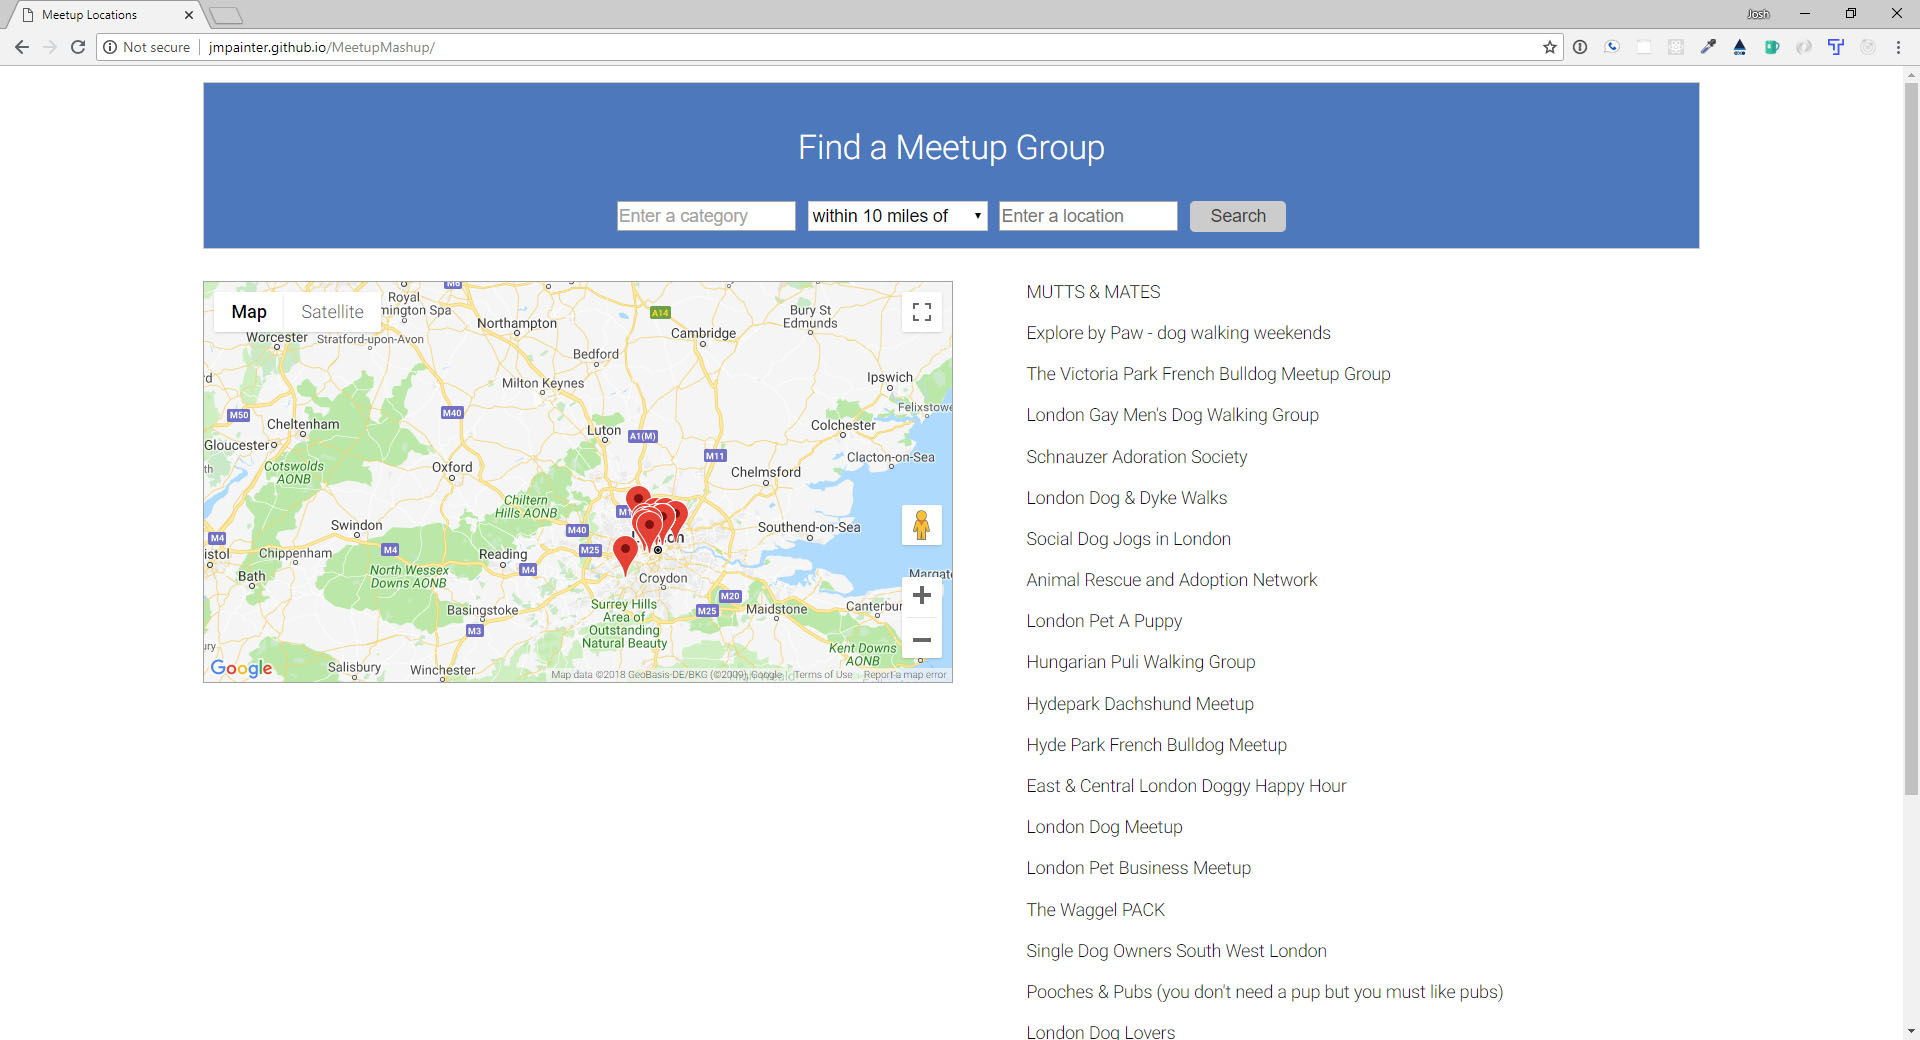
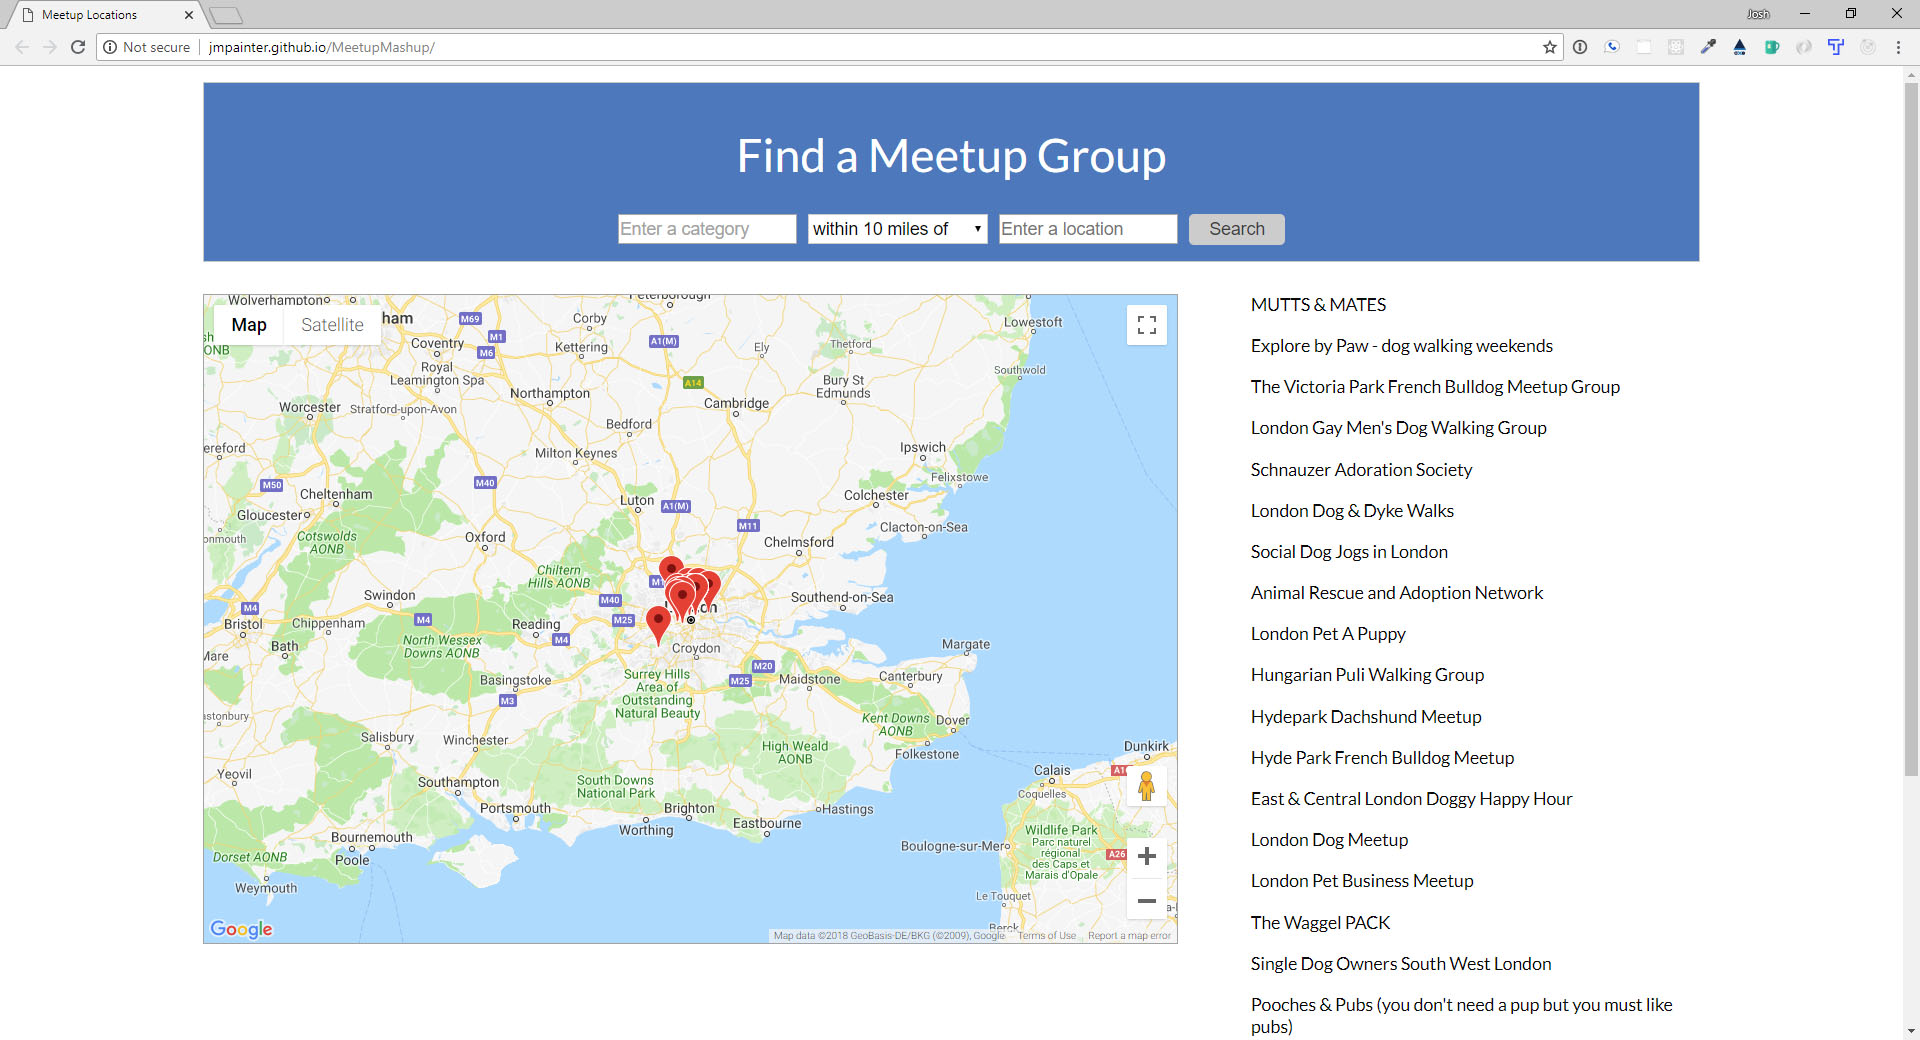
added new projects

diff --git a/index.html b/index.html
@@ -51,10 +51,9 @@
 					<section class="intro">
 						<h1>I'm a web developer</h1>
 						<p>...with an interest in creating simple, attractive websites and applications that put usability
-							 and clarity first. I enjoy working with a client to bring their vision to life for the look, feel, and functionality
-							 of a site. The result are sites with contemporary but classic style that the client will love.
-							 Using the latest tools with Wordpress content management system, I can deliver entirely custom sites and site administration
-							 at an affordable price point. My goal is to help your business or personal endeavor succeed.</p>
+               and clarity first. I enjoy working with a client to bring their vision to life for the look,
+                feel, and functionality of a site. The result are products with a contemporary but classic style 
+                that the client will love. Using the latest tools such as React, jQuery, Node, MongoDB, and the Wordpress content management system, I can deliver entirely custom web sites, web applications, and site administration at an affordable price point. My goal is to help your business or personal endeavor succeed.</p>
 					</section>
         </div>
         <div class="col=md-3"></div>
@@ -65,7 +64,7 @@
       <div class="container">
 				<div class="row">
 					<div class="col-md-12">
-						<h1>Recent Projects:</h1>
+						<h2>Recent Projects:</h2>
 					</div>
         </div>
         <div class="row">
@@ -74,7 +73,14 @@
           </div>
           <div class="col-md-4">
             <h3><a href="http://www.dreamscatching.com/" target="_blank">Dream Catcher</a></h3>
-            <p>CLEO bags: craftsperson's responsive Wordpress eCommerce site using WooCommerce</p>
+            <p>Dream Catcher is a combined private dream journal and public dream repository. A user can create 
+              and maintain a list of dreams for themselves using a rich text editor. The dreams can be set to 
+              be public, where the will be available for public viewing on the home screen. A public dream 
+              can be set to be open to comments so registered users will be able to leave comments. A user 
+              can delete comments made on their dreams and also their own comments on other dreams.</p>
+            <p><strong>Technologies used: </strong>jQuery, REST, Node.js, Express.js Passport.js, JSON Web Tokens, MongoDB,
+               Mongoose, Github, TravisCI, Heroku, mLab, Mocha, Chai. Responsive design with CSS float grid.</p>
+            <p><a href="https://github.com/jmpainter/dream-catcher" target="_blank">Github Repository</a></p>
           </div>
         </div>     
         <div class="row">
@@ -83,7 +89,12 @@
           </div>
           <div class="col-md-4">
             <h3><a href="https://jmpainter.github.io/netflix-reviewed/" target="_blank">Netflix Reviewed</a></h3>
-            <p>CLEO bags: craftsperson's responsive Wordpress eCommerce site using WooCommerce</p>
+            <p>Netflix Reviewed is a resource for combining recent Netflix releases with third party rating information.
+               Users see a series of thumbnail images with rating and runtime information. Ratings from IMDB, Rotten Tomatoes, 
+               and Metacritic are provided for each title if available. The list can be sorted by rating type, title, or runtime.
+                A detail screen with a larger image, if available, and a synopsis is provided when the user selects a title.</p>
+            <p><strong>Technologies used: </strong>jQuery, uNoGS api, The Open Movie Database API, Github. Responsive design with CSS float grid.</p>
+            <p><a href="https://github.com/jmpainter/netflix-reviewed" target="_blank">Github Repository</a></p>
           </div>
         </div>   
         <div class="row">
@@ -92,7 +103,11 @@
           </div>
           <div class="col-md-4">
             <h3><a href="http://jmpainter.github.io/MeetupMashup/" target="_blank">Meetup Mashup</a></h3>
-            <p>CLEO bags: craftsperson's responsive Wordpress eCommerce site using WooCommerce</p>
+            <p>Meetup Mashup is a tool for placing Meetup groups on a Google Map. Users can search for groups meeting a specific category
+              within a specified distance of an entered location. Pins on the map can be moused over to see the
+               corresponding group name and clicked on to go to the group’s Meetup page.</p>
+            <p><strong>Technologies used: </strong>jQuery, Google Place Autocomplete API, Google Maps API, Meetup API, Github. Responsive design through jQuery and CSS media queries.</p>
+            <p><a href="https://github.com/jmpainter/MeetupMashup" target="_blank">Github Repository</a></p>
           </div>
         </div>                                
         <div class="row">
@@ -101,7 +116,11 @@
           </div>
           <div class="col-md-4">
             <h3><a href="https://jmpainter.github.io/submarine-quiz/" target="_blank">Submarine Quiz</a></h3>
-            <p>CLEO bags: craftsperson's responsive Wordpress eCommerce site using WooCommerce</p>
+            <p>Submarine Quiz is single page interactive quiz game. A user can start a multiple choice quiz on submarines featuring images for each question. The user 
+              can see their current score throughout and their final score at the end. jQuery fade transitions
+              are used between screens. The app features a responsive design.</p>
+            <p><strong>Technologies used: </strong>jQuery</p>
+            <p><a href="https://github.com/jmpainter/submarine-quiz" target="_blank">Github Repository</a></p>
           </div>
         </div>       
         <div class="row">
@@ -110,7 +129,9 @@
           </div>
           <div class="col-md-4">
             <h3><a href="https://www.cleobags.com/" target="_blank">Cleo Bags</a></h3>
-            <p>CLEO bags: craftsperson's responsive Wordpress eCommerce site using WooCommerce</p>
+            <p>Cleo Bags is an ecommerce website for a handcrafted handbag company. The site features product image galleries, photos of models with the handbags,
+               and a description of the craftsmaker.</p>
+            <p><strong>Technologies used: </strong>Wordpress with custom theme, Woocommerce integrated with Stripe, Photoshop, Illustrator</p>
           </div>
         </div>    
         <div class="row">
@@ -119,7 +140,8 @@
           </div>
           <div class="col-md-4">
             <h3><a href="https://www.mikemagruderart.com/" target="_blank">Mike Magruder Art</a></h3>
-            <p>CLEO bags: craftsperson's responsive Wordpress eCommerce site using WooCommerce</p>
+            <p>Mike Magruder art is an ecommerce website for a landscape painter. The site features image galleries, a news blog, and a slideshow feature.</p>
+            <p><strong>Technologies used: </strong>Wordpress with custom theme, Woocommerce integrated with Stripe, Photoshop, Illustrator</p>
           </div>
         </div>     
         <div class="row">
@@ -128,7 +150,9 @@
           </div>
           <div class="col-md-4">
             <h3><a href="https://leilasamrad.com/" target="_blank">Leila Samrad</a></h3>
-            <p>CLEO bags: craftsperson's responsive Wordpress eCommerce site using WooCommerce</p>
+            <p>Leila Samrad: Transformative Fire is a website for a therapist. The site features information about Leila’s and her course offerings, a blog, and a link 
+              collection. Online registration and payment for courses and services is offered. A custom logo was created for the site.</p>
+              <p><strong>Technologies used: </strong>Wordpress with custom theme, Payment form plugin integrated with Stripe, Photoshop, Illustrator</p>            
           </div>
         </div>       
         <div class="row">
@@ -137,7 +161,9 @@
           </div>
           <div class="col-md-4">
             <h3><a href="http://madroneproperty.com/" target="_blank">Madrone Property Holdings</a></h3>
-            <p>CLEO bags: craftsperson's responsive Wordpress eCommerce site using WooCommerce</p>
+            <p>Madrone Property Holdings is a website for a real estate company. The site includes a set of property listings with photos, detailed information,
+               and maps. A custom logo was created for the company.</p>
+            <p><strong>Technologies used: </strong>Wordpress with custom theme. Customized real-estate plugin. Photoshop, Illustrator</p>            
           </div>
         </div>
         <div class="row">
@@ -146,7 +172,9 @@
           </div>
           <div class="col-md-4">
             <h3><a href="http://melanthium.com/" target="_blank">Melanthium Ensemble</a></h3>
-            <p>CLEO bags: craftsperson's responsive Wordpress eCommerce site using WooCommerce</p>
+            <p>The Melanthium Ensemble is a website for a jazz group. The website has notes and information about the group, photos, videos, reviews, news, and events. 
+              A newsletter sign up is offered.</p>
+            <p><strong>Technologies used: </strong>Wordpress with custom theme. image slideshow, embedded videos, Constant Contact integration. Photoshop</p>            
           </div>
         </div>                                 
       </div>
@@ -237,7 +265,7 @@
 			</ul>
 			<p class="copy">&#169; 2014 Josh Painter</p>
 		</footer>
-		<script src="https://ajax.googleapis.com/ajax/libs/jquery/1.11.2/jquery.min.js"></script>
+		<script src="https://ajax.googleapis.com/ajax/libs/jQuery/1.11.2/jQuery.min.js"></script>
 		<!-- IE10 viewport hack for Surface/desktop Windows 8 bug -->
 		<script src="js/ie10-viewport-bug-workaround.js"></script>
 		<script src="js/bootstrap.min.js"></script>

diff --git a/css/style.css b/css/style.css
@@ -1,3 +1,6 @@
+html {
+  font-size: 16px;
+}
 body {
 	font-family: 'Didact Gothic', Verdana,sans-serif;
 	color: #0f0f0f;
@@ -54,7 +57,9 @@ body {
 	margin-bottom: 60px;
 }
 p {
-	font-size: 1.1rem;
+  font-size: 1.5rem;
+  line-height: 1.9rem;
+  margin-bottom: 1.5rem;
 }
 h1, h2 {
 	color: #111;
@@ -65,18 +70,19 @@ h1 {
 	margin-bottom: 1rem;
 }
 h2 {
-	font-size: 1.3rem;
-	margin: 2rem 0;
+	font-size: 1.9rem;
+  margin: 2rem 0;
+  font-weight: 600;
 }
 .featured h1, h2, h3 {
 	color: #581121;
 }
 h3 {
-	font-size: 1.2rem;
+	font-size: 1.6rem;
 	margin: 2.3rem 0 1rem;
 	font-weight: bold;
 }
-a, a:hover {
+a, a:hover, a:visited, a:active, a:focus {
 	text-decoration: none;
 	color: #581121;
 }
@@ -132,6 +138,9 @@ a, a:hover {
 }
 .contact {
 	padding: 2rem 0;
+}
+strong {
+  font-weight: 600;
 }
 #ajax-contact {
 	width: 100%;
